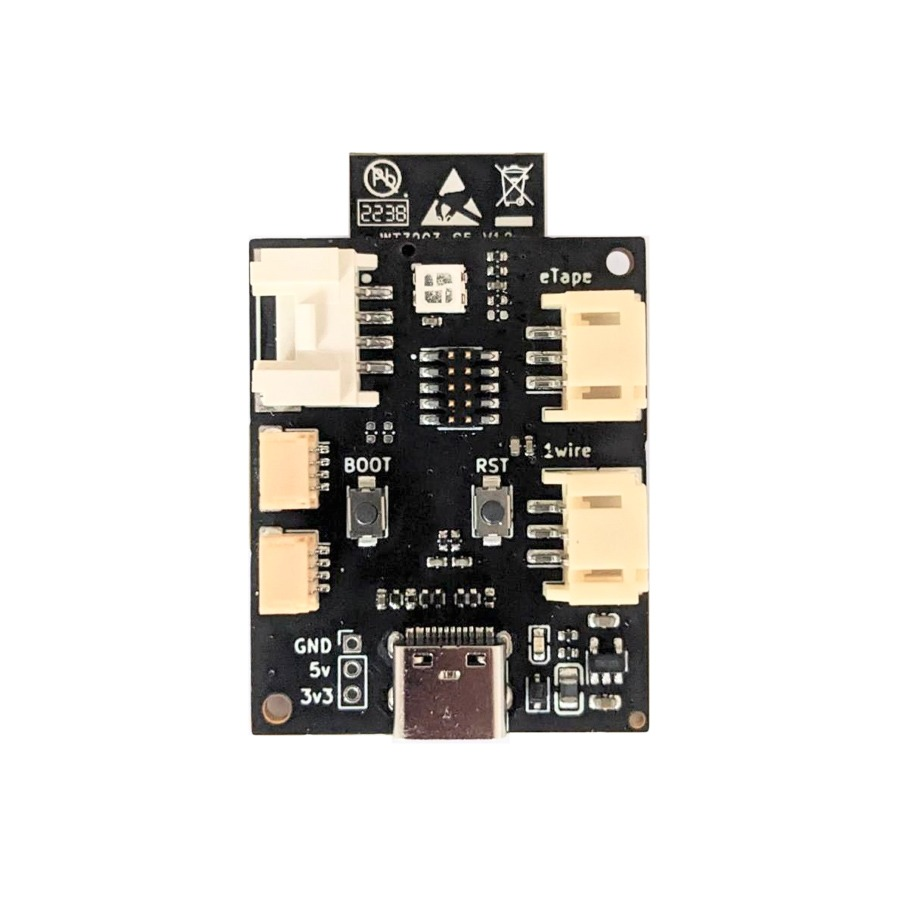
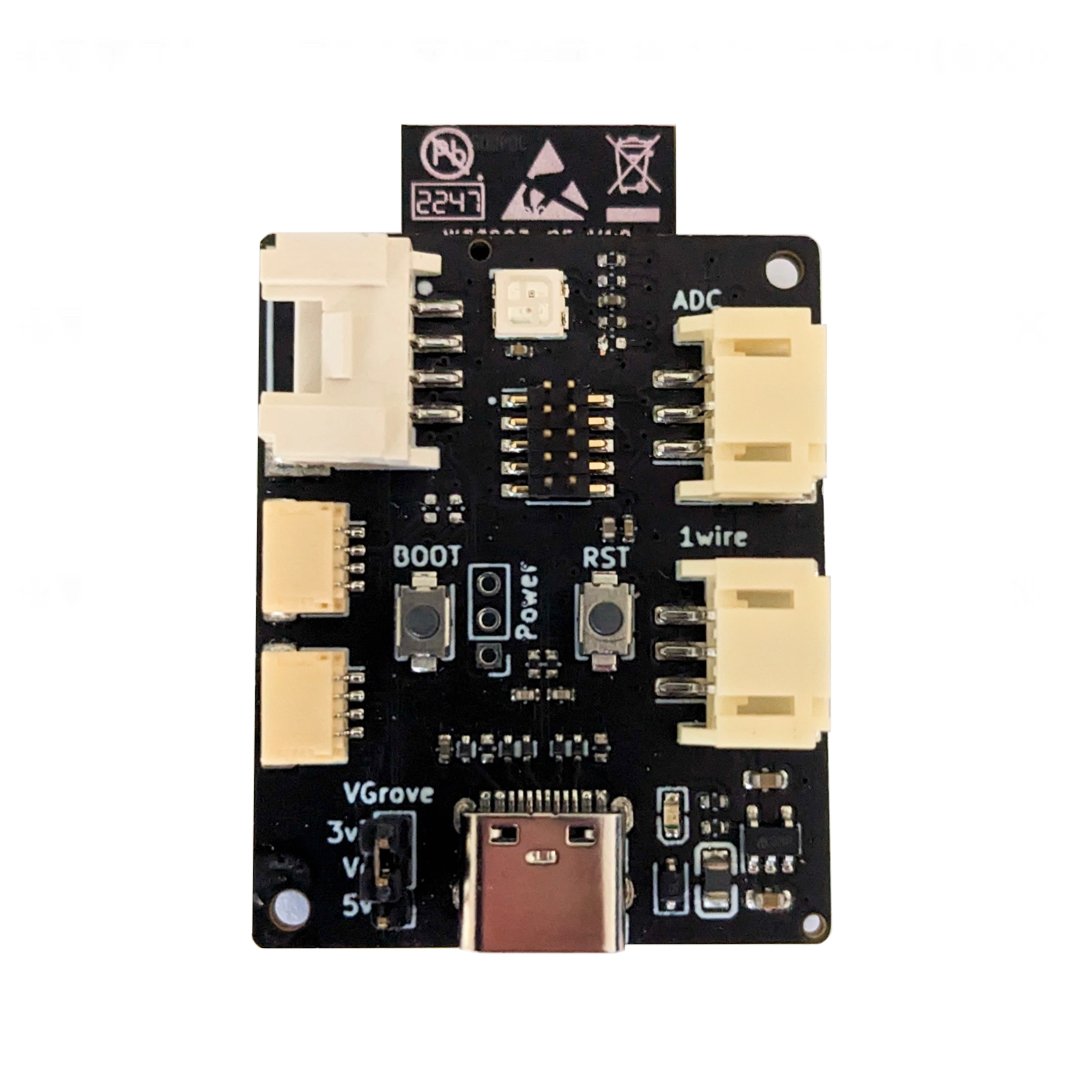
Update images to latest hardware

Changed region(s): [[0.2178, 0.0933, 0.7778, 0.9022]]

diff --git a/openSense/automations/README.md b/openSense/automations/README.md
@@ -1,1 +1,4 @@
-This directoy contains sample blueprints for Home Assistant.
+This directoy contains sample blueprints for Home Assistant. You can import the blueprints directly into Home Assistant using the Github URL on the Blueprints page.
+
+### RGB_Temperature
+Use the RGB Led to display current temperature from a senors, this maps from blue (cold) to green (normal) and red (hot)
